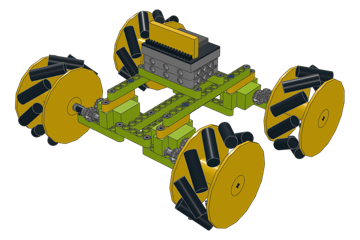
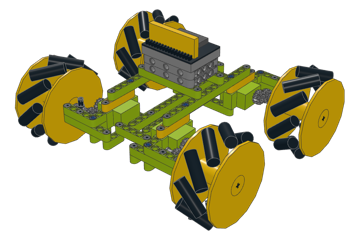
The geared cars' bearing frames, clear of the gears
The user, on the racer's step 13 picture: "this gear will not rotate -
i stuck to green part". A pin with pin hole standing on a flat beam
leaves 10 LDU under the axle, so the gear on the axle bit into the
7-beam (the 12-tooth by 7 LDU, the tank's 8-tooth by 2.4).

Now end_beams(): the 7-beam two studs outboard of the lug line, two
3-beams bridging under the lug and the tie with its pins; bearings(): a
3 x 5 L-beam on the 7-beam, the pin with pin hole hanging from its arm
end over the axle line. The tank's belt starts past the frames:
sprockets at 217, 21.2 cm over the tracks. Racer 17 steps, 129 parts;
geared tank 20 steps, 216 parts.

Claude-Session: https://claude.ai/code/session_011hvyuWNUuaEFsj45paVWBn

diff --git a/models/wukong_mecanum.py b/models/wukong_mecanum.py
@@ -3,9 +3,10 @@ hood, wings, horns, lights and bent beams (the user, 2026-10-31: "clean uncommon
 aesthetic"). Two side rails (a lime 15-beam on two yellow 5-beams) carry two 9-beams and two
 5 x 7 frames; the four green Geekservo 360 servos hang on the rails' end pins, outputs
 outwards, with lime beams under them. The wheels are not on the servos: each servo's output
-turns a 12-tooth double bevel gear that drives a second one on an 8L axle, held by a pin with
-pin hole on a 7-beam under the car's end (the two 7-beams of an end tied by a 5-beam), and the
-mecanum wheel sits on that axle past the ring. The gears' axles are 31.6 LDU apart, 1.6 LDU
+turns a 12-tooth double bevel gear that drives a second one on an 8L axle, in the ring of a pin
+with pin hole that hangs from an L-beam; the L-beam lies on a 7-beam two studs outboard of the
+lug line (clear of the gear: nothing may lie right under it), which bridges under the lug and the
+tie carry; the mecanum wheel sits on that axle past the ring. The gears' axles are 31.6 LDU apart, 1.6 LDU
 (0.65 mm) more than LEGO's 30 for two 12-tooth gears, so the teeth mesh 2.4 LDU deep instead of
 4. A gear pair turns each wheel the other way round: the driver's DIRECTION setting is -1 (the
 mecanum wheels' pattern, left-hand wheels at front left and back right, stays). The Wukong board
@@ -22,14 +23,16 @@ LIME = 27
 FLAT_X = R(("y", 90))                                      # beam along X, holes vertical
 ACROSS = R(("y", 90))                                      # pin or axle along Z
 PIN_HOLE_ON_Z_DOWN = np.array([[0, 0, 1], [1, 0, 0], [0, 1, 0]])   # 15100: pin hole along Z, pin down
+PIN_HOLE_ON_Z_UP = np.array([[0, 0, -1], [-1, 0, 0], [0, 1, 0]])   # 15100: pin hole along Z, pin up
 WHEEL = {(1, 1): "geekedu-ef-mecanum-wheel-left.dat", (-1, -1): "geekedu-ef-mecanum-wheel-left.dat",
          (1, -1): "geekedu-ef-mecanum-wheel-right.dat", (-1, 1): "geekedu-ef-mecanum-wheel-right.dat"}
 SERVO_X, SERVO_Y, RAIL_Z = 120, 50, 80                     # servo centres (on the rails' end pins)
 OUT_X, OUT_Y = SERVO_X + 10, SERVO_Y                       # the outputs sit 10 off the servos' centres
-RING_X, RING_Y = SERVO_X + 40, SERVO_Y + 10                # the pin with pin hole on the 7-beam's outer hole
+RING_X, RING_Y = SERVO_X + 40, SERVO_Y + 10                # the axle's bearing: a pin with pin hole under the L-beam's arm
+ARM_X = SERVO_X + 80                                       # the racer's 7-beams: two studs outboard of the lug line, clear of the 12-tooth gears
 BEAM_Z = RAIL_Z + 20                                       # the 7-beams' middles: holes from 40 to 160, the lug pin in 80
-TIE_Z = RAIL_Z - 40                                        # the 7-beams' innermost holes (z = 40): the 5-beam's end pins
-RING_Z = RAIL_Z + 80                                       # the 7-beams' outer holes (z = 160)
+TIE_Z = RAIL_Z - 40                                        # the tie's bridges (z = 40)
+RING_Z = RAIL_Z + 80                                       # the 7-beams' outer holes, the L-beams' corners (z = 160)
 GEAR_Z = RAIL_Z + 46                                       # the gears' middle, the one on the output against the servo (z = 126)
 WHEEL_Z = 231.5                                            # wheel centre: inner plate against the half bush past the ring
 # along each ring axle (left side, the right mirrored): a bush clear of the lug (96..116), the
@@ -41,8 +44,8 @@ BUSH_Z, SPACER_Z, OUTER_SPACER_Z, AXLE_Z = 106, 141, 174, 176
 # left, low; the board from the front left
 VIEW = dict(az=125, el=28, cover_az=130, cover_el=30,
             step_views={1: (330, 20), 2: (150, 20), 3: (65, 35), 4: (65, 35), 5: (65, 30), 6: (270, 35),
-                        7: (60, -35), 8: (160, -40), 9: (160, -35), 10: (150, 12), 11: (150, 12),
-                        12: (160, 8), 13: (150, 10), 14: (130, 30), 15: (140, 35)})
+                        7: (60, -35), 8: (160, -40), 9: (160, -35), 10: (160, -35), 11: (150, 12),
+                        12: (150, 12), 13: (150, 15), 14: (160, 8), 15: (150, 10), 16: (130, 30), 17: (140, 35)})
 
 
 def frame(x, y):
@@ -135,34 +138,60 @@ def underside(m, ends=(-1, 1), outer_beams=True):
     m.step()
 
 
-def end_beams(m, ends=(-1, 1)):
-    """Step 10: the geared cars' bearings: (x4) a 7-beam under each end of the car on the outer
-    lug's pin, its outer end past the servo; a pin up in its innermost hole, a pin with pin hole
-    down in its outer hole, the hole along the car's axles."""
+def end_beams(m, arm_x, ends=(-1, 1)):
+    """Steps 10-11: the geared cars' bearing frame under each servo's outer end. Nothing may lie
+    under the gear on the axle (it reaches 7 LDU below the axle line's beam top on the racer), so
+    the beam along the car sits a stud or two outboard of the gears, at arm_x, and bridges across
+    bring the lug's and the tie's pins to it; the ring hangs from an L-beam above (bearings())."""
+    cx = (RING_X + arm_x) / 2                               # the bridges' middle: holes at 160 and arm_x
+    # 10: (x4) two 3-beams across under each servo's outer end: one on the lug's pin, one in line
+    #     with the tie (a pin up in its hole under the tie); a pin up in each one's outer hole, the
+    #     lug's one a blue 3L pin (it reaches the L-beam too)
     for fx in ends:
         for s in (1, -1):
-            m.add("32524.dat", LIME, (fx * RING_X, 80, BEAM_Z * s))
+            for z in (TIE_Z, RAIL_Z):
+                m.add("32523.dat", LIME, (fx * cx, 80, z * s), FLAT_X)
             m.add("2780.dat", BLACK, (fx * RING_X, 70, TIE_Z * s), PIN_DOWN)
-            m.add("15100.dat", BLACK, (fx * RING_X, RING_Y, RING_Z * s), PIN_HOLE_ON_Z_DOWN)
+            m.add("2780.dat", BLACK, (fx * arm_x, 70, TIE_Z * s), PIN_DOWN)
+            m.add("6558.dat", BLUE, (fx * arm_x, 60, RAIL_Z * s), PIN_DOWN)
+    m.step()
+    # 11: (x4) a 7-beam along the car on those pins, outboard of the gears, its outer end past the
+    #     servo
+    for fx in ends:
+        for s in (1, -1):
+            m.add("32524.dat", LIME, (fx * arm_x, 60, BEAM_Z * s))
     m.step()
 
 
 def ties(m, ends=(-1, 1)):
-    """Step 11: (x2) a 5-beam across the two 7-beams' inner ends, on those pins: on one pin a
-    beam could turn."""
+    """Step 12: (x2) a 5-beam across the two bridges under the tie pins: the frames of one end are
+    one piece."""
     for fx in ends:
         m.add("32316.dat", LIME, (fx * RING_X, 60, 0))
     m.step()
 
 
+def bearings(m, arm_x, ends=(-1, 1)):
+    """Step 13: (x4) a 3 x 5 L-beam flat on the 7-beam: its long arm on the blue pin and two more,
+    its short arm over the axle line; a pin with pin hole up into the arm's hole there, its ring
+    the axle's bearing, the hole along the car's axles."""
+    for fx in ends:
+        for s in (1, -1):
+            m.add("32526.dat", LIME, (fx * arm_x, 40, RING_Z * s), frame((-fx, 0, 0), (0, s * fx, 0)))
+            for z in (RING_Z - 40, RING_Z):
+                m.add("2780.dat", BLACK, (fx * arm_x, 50, z * s), PIN_DOWN)
+            m.add("15100.dat", BLACK, (fx * RING_X, RING_Y, RING_Z * s), PIN_HOLE_ON_Z_UP)
+    m.step()
+
+
 def drive(m):
-    """Steps 12-14: the 1:1 gear pairs, the axles and the mecanum wheels."""
-    # 12: a 12-tooth double bevel gear pushed all the way onto each servo's output
+    """Steps 14-16: the 1:1 gear pairs, the axles and the mecanum wheels."""
+    # 14: a 12-tooth double bevel gear pushed all the way onto each servo's output
     for fx in (-1, 1):
         for s in (1, -1):
             m.add("32270.dat", LBG, (fx * OUT_X, OUT_Y, GEAR_Z * s), mesh(fx, 12, 12)[0])
     m.step()
-    # 13: (x4) an 8L axle through the ring: inside it a half bush against the ring, the second
+    # 15: (x4) an 8L axle through the ring: inside it a half bush against the ring, the second
     #     12-tooth gear in the first one's teeth and a bush; outside it a half bush
     for fx in (-1, 1):
         turn = mesh(fx, 12, 12)[1]                          # the axle's cross as the gear's hole
@@ -173,7 +202,7 @@ def drive(m):
             m.add("4265c.dat", LBG, (fx * RING_X, RING_Y, SPACER_Z * s), turn)
             m.add("4265c.dat", LBG, (fx * RING_X, RING_Y, OUTER_SPACER_Z * s), turn)
     m.step()
-    # 14: the mecanum wheels on the axles against the half bushes; left-hand wheels at front
+    # 16: the mecanum wheels on the axles against the half bushes; left-hand wheels at front
     #     left and back right (the kit's top view shows the rollers)
     for fx in (-1, 1):
         for side in (-1, 1):
@@ -195,8 +224,9 @@ def build():
     body(m)
     servos(m)
     underside(m, outer_beams=False)
-    end_beams(m)
+    end_beams(m, ARM_X)
     ties(m)
+    bearings(m, ARM_X)
     drive(m)
     board(m)
     return m

diff --git a/models/wukong_tank_4_motors_geared.py b/models/wukong_tank_4_motors_geared.py
@@ -1,8 +1,9 @@
 """Wukong tank with four servos, geared 2:1: our design, the four-servo Wukong tank
 (wukong_tank_4_motors.py: the Wukong mecanum racer's body on tracks from the Building:bit kit)
 with each servo geared up 2:1 and the belt shaped like the Building:bit tank's. The body,
-servos and underside are the racer's (steps 1-9, the end 9-beams left out); the racer's 7-beams,
-pins with pin holes and ties (10-11) hold the drive axles: a 16-tooth gear on each servo's
+servos and underside are the racer's (steps 1-9, the end 9-beams left out); the racer's bearing
+frames (10-13: bridges, 7-beams a stud outboard of the lug line, ties, L-beams with the pins with
+pin holes) hold the drive axles: a 16-tooth gear on each servo's
 output turns the 8-tooth gear on a 7L axle through the ring, and the sprocket sits on the axle
 past the ring, so the tracks run twice as fast as the servos turn, with half the pull. The ring
 is 30 LDU along and 10 below the output: the gears' axles are 31.6 LDU apart, 1.6 LDU (0.65 mm)
@@ -13,8 +14,8 @@ the belt's bottom run bends down to it and the tank stands on the idlers, its en
 floor, like the Building:bit tank (the user, 2026-10-31: "the belt shape with extra wheel"). One
 module is what 31 links allow, the count that made the plain belt as round as the four-servo
 tank's 27 (two modules lower needs 32 links and leaves 2 cm of slack). The Building:bit links
-are 5 studs wide, so the tracks start outboard of the gears: the sprocket hubs sit at 197 and
-the car is 19.6 cm wide over the tracks. The driver's directions are -1: a gear pair turns each
+are 5 studs wide, so the tracks start outboard of the gears and of the bearing frames: the
+sprocket hubs sit at 217 and the car is 21.2 cm wide over the tracks. The driver's directions are -1: a gear pair turns each
 sprocket the other way. World: front = +X, left = +Z, Y points down."""
 import numpy as np
 
@@ -32,19 +33,20 @@ WHEELS = (DRIVES[0], DRIVES[1], IDLER)                      # back, forward alon
 MIDDLE_Y = 100                                              # the 15-beam under the middle, on 3L pins from the keel
 IDLER_RING_Z = 140                                          # its end holes: the idlers' pins with pin holes
 GEAR_Z = racer.GEAR_Z                                       # the gears' middle, the 16-tooth one against the servo (z = 126)
-WHEEL_Z = 197                                               # sprocket hubs past the rings and a half bush; the links start at 149
+WHEEL_Z = 217                                               # sprocket hubs: the links (5 studs wide) start at 169, past the frames' ends
 # along each drive axle (left side, the right mirrored): a bush clear of the lug (96..116), the
-# 8-tooth gear (116..136), a half bush, 5 free, the ring (151..169), a half bush, the sprocket
-# (179..215), a half bush; the 7L axle from z = 96 to 236
-BUSH_Z, SPACER_Z, OUTER_SPACER_Z, OUTER_BUSH_Z, AXLE_Z = 106, 141, 174, 220, 166
-# along each idler axle: the ring (131..149), a bush, a half bush, the sprocket, a half bush; the
-# 5L axle from z = 130 to 230
-IDLER_BUSH_Z, IDLER_SPACER_Z, IDLER_AXLE_Z = 159, 174, 180
+# 8-tooth gear (116..136), a half bush, 5 free, the ring (151..169), a half bush, a bush, the
+# sprocket (199..235), a half bush; the 8L axle from z = 96 to 256
+BUSH_Z, SPACER_Z, OUTER_SPACER_Z, OUTER_BUSH_Z, END_BUSH_Z, AXLE_Z = 106, 141, 174, 189, 240, 176
+# along each idler axle: the ring (131..149), a bush, a half bush, a bush, the sprocket, a half
+# bush; the 6L axle from z = 130 to 250
+IDLER_BUSH_Z, IDLER_SPACER_Z, IDLER_AXLE_Z = 159, 174, 190
 TRACK = Track(WHEELS, 31)
 # the racer's cameras for its steps; the middle beam from below, the gears from the left, the
 # axles and sprockets from the front left, low, the tracks from the front left
-VIEW = dict(racer.VIEW, step_views={**racer.VIEW["step_views"], 12: (160, -35), 13: (160, 8), 14: (150, 10),
-                                    15: (150, 10), 16: (135, 20), 17: (130, 30), 18: (140, 35)})
+ARM_X = racer.ARM_X                                         # the racer's frames: a stud out the 8-tooth gear still reaches the 7-beam, two studs out the belt must start past it
+VIEW = dict(racer.VIEW, step_views={**racer.VIEW["step_views"], 14: (160, -35), 15: (160, 8), 16: (150, 10),
+                                    17: (150, 10), 18: (135, 20), 19: (130, 30), 20: (140, 35)})
 
 
 def build():
@@ -52,9 +54,10 @@ def build():
     racer.body(m)
     racer.servos(m)
     racer.underside(m, outer_beams=False)
-    racer.end_beams(m)
+    racer.end_beams(m, ARM_X)
     racer.ties(m)
-    # 12: a 15-beam under the middle of the car, on two blue 3L pins down through the 15-beams
+    racer.bearings(m, ARM_X)
+    # 14: a 15-beam under the middle of the car, on two blue 3L pins down through the 15-beams
     #     there; a pin with pin hole down in each of its end holes, the hole along the car's axles
     for z in (-20, 20):
         m.add("6558.dat", BLUE, (0, 80, z), PIN_DOWN)
@@ -62,37 +65,39 @@ def build():
     for s in (1, -1):
         m.add("15100.dat", BLACK, (IDLER[0], IDLER[1], IDLER_RING_Z * s), racer.PIN_HOLE_ON_Z_DOWN)
     m.step()
-    # 13: a 16-tooth gear pushed all the way onto each servo's output
+    # 15: a 16-tooth gear pushed all the way onto each servo's output
     for x, y in OUTPUTS:
         for s in (1, -1):
             m.add("94925.dat", LBG, (x, y, GEAR_Z * s), racer.mesh(np.sign(x), 16, 8)[0])
     m.step()
-    # 14: (x4) a 7L axle through the ring: inside it a half bush against the ring, the 8-tooth gear
-    #     in the 16-tooth gear's teeth and a bush; outside it a half bush
+    # 16: (x4) an 8L axle through the ring: inside it a half bush against the ring, the 8-tooth gear
+    #     in the 16-tooth gear's teeth and a bush; outside it a half bush and a bush
     for x, y in DRIVES:
         turn = racer.mesh(np.sign(x), 16, 8)[1]            # the axle's cross as the 8-tooth gear's hole
         for s in (1, -1):
-            m.add("44294.dat", LBG, (x, y, AXLE_Z * s), turn @ ACROSS)
+            m.add("3707.dat", LBG, (x, y, AXLE_Z * s), turn @ ACROSS)
             m.add("3713.dat", LBG, (x, y, BUSH_Z * s), turn)
             m.add("10928.dat", DBG, (x, y, GEAR_Z * s), turn)
             m.add("4265c.dat", LBG, (x, y, SPACER_Z * s), turn)
             m.add("4265c.dat", LBG, (x, y, OUTER_SPACER_Z * s), turn)
+            m.add("3713.dat", LBG, (x, y, OUTER_BUSH_Z * s), turn)
     m.step()
-    # 15: (x2) a 5L axle through each idler's ring, a bush and a half bush on it outside
+    # 17: (x2) a 6L axle through each idler's ring, a bush, a half bush and a bush on it outside
     for s in (1, -1):
         turn = TRACK.sprocket_turn(IDLER)
-        m.add("32073.dat", LBG, (IDLER[0], IDLER[1], IDLER_AXLE_Z * s), turn @ ACROSS)
+        m.add("3706.dat", LBG, (IDLER[0], IDLER[1], IDLER_AXLE_Z * s), turn @ ACROSS)
         m.add("3713.dat", LBG, (IDLER[0], IDLER[1], IDLER_BUSH_Z * s), turn)
         m.add("4265c.dat", LBG, (IDLER[0], IDLER[1], IDLER_SPACER_Z * s), turn)
+        m.add("3713.dat", LBG, (IDLER[0], IDLER[1], OUTER_BUSH_Z * s), turn)
     m.step()
-    # 16: a sprocket on each axle against the half bush, a half bush outside it
+    # 18: a sprocket on each axle against the half bush, a half bush outside it
     for x, y in WHEELS:
         for s in (1, -1):
             turn = TRACK.sprocket_turn((x, y))
             m.add("57519.dat", DBG, (x, y, WHEEL_Z * s), turn)
-            m.add("4265c.dat", LBG, (x, y, OUTER_BUSH_Z * s), turn)
+            m.add("4265c.dat", LBG, (x, y, END_BUSH_Z * s), turn)
     m.step()
-    # 17: (x2) 31 links to a track, round each side's two sprockets and under its idler
+    # 19: (x2) 31 links to a track, round each side's two sprockets and under its idler
     for s in (1, -1):
         TRACK.links(m, DBG, WHEEL_Z * s)
     m.step()

diff --git a/README.md b/README.md
@@ -9,10 +9,10 @@ for the phone joystick.
 
 | | Model | Motors on the Wukong board | Steps | Parts |
 |---|---|---|---|---|
-| <img src="docs/images/wukong-mecanum.png" width="180" alt="Wukong mecanum racer"> | **wukong-mecanum**: the mecanum racer; drives, turns on the spot and slides sideways. A plain body of beams and frames; each wheel on its own axle, turned 1:1 by two 12-tooth gears from the servo (set the driver's DIRECTION to -1) | 4 Geekservo 360° servos: S0 left front, S1 left rear, S2 right front, S3 right rear | [15, online](https://legorace.geekedu.eu/en/models/wukong-mecanum-racer/) · [PDF](https://github.com/cznewt/gedu-brick-race/releases/latest/download/wukong-mecanum-instructions.pdf) | 101 |
+| <img src="docs/images/wukong-mecanum.png" width="180" alt="Wukong mecanum racer"> | **wukong-mecanum**: the mecanum racer; drives, turns on the spot and slides sideways. A plain body of beams and frames; each wheel on its own axle, turned 1:1 by two 12-tooth gears from the servo (set the driver's DIRECTION to -1); the axle's bearing is a pin with pin hole hanging from an L-beam on a frame of 7-beams and 3-beams two studs outboard of the gears | 4 Geekservo 360° servos: S0 left front, S1 left rear, S2 right front, S3 right rear | [17, online](https://legorace.geekedu.eu/en/models/wukong-mecanum-racer/) · [PDF](https://github.com/cznewt/gedu-brick-race/releases/latest/download/wukong-mecanum-instructions.pdf) | 129 |
 | <img src="docs/images/wukong-tank-2-motors.png" width="180" alt="Wukong tank with two motors"> | **wukong-tank-2-motors**: the racer's body on tracks, driven at the back, the sprockets on the servos | 2 Geekservo 360° servos: S0 left, S1 right | [14, online](https://legorace.geekedu.eu/en/models/wukong-tank-2servo/) · [PDF](https://github.com/cznewt/gedu-brick-race/releases/latest/download/wukong-tank-2-motors-instructions.pdf) | 117 |
 | <img src="docs/images/wukong-tank-4-motors.png" width="180" alt="Wukong tank with four motors"> | **wukong-tank-4-motors**: the racer's body on tracks, all four motors driving, the sprockets on the servos | 4 Geekservo 360° servos: S0 left front, S1 left rear, S2 right front, S3 right rear | [12, online](https://legorace.geekedu.eu/en/models/wukong-tank-4servo/) · [PDF](https://github.com/cznewt/gedu-brick-race/releases/latest/download/wukong-tank-4-motors-instructions.pdf) | 119 |
-| <img src="docs/images/wukong-tank-4-motors-geared.png" width="180" alt="Wukong tank with four motors, geared 2:1"> | **wukong-tank-4-motors-geared**: the four-motor tank geared up 2:1: a 16-tooth gear on each servo turns an 8-tooth one on an axle that a pin with pin hole holds, on a 7-beam under the car's end (the two 7-beams of an end are tied by a 5-beam); the sprocket sits on that axle; a low idler in the middle of each belt shapes it like the Building:bit tank's, so the tank stands on the idlers. About the mecanum car's speed, half the pull. A prototype: the gears mesh 0.65 mm wider than LEGO's standard spacing, and the car is 19.6 cm wide over the tracks (the Building:bit links are 5 studs wide, so they start outboard of the gears). The drive is steps 25-29 | 4 Geekservo 360° servos: S0 left front, S1 left rear, S2 right front, S3 right rear | [18, online](https://legorace.geekedu.eu/en/models/wukong-tank-4servo-geared/) · [PDF](https://github.com/cznewt/gedu-brick-race/releases/latest/download/wukong-tank-4-motors-geared-instructions.pdf) | 182 |
+| <img src="docs/images/wukong-tank-4-motors-geared.png" width="180" alt="Wukong tank with four motors, geared 2:1"> | **wukong-tank-4-motors-geared**: the four-motor tank geared up 2:1: a 16-tooth gear on each servo turns an 8-tooth one on an axle in the racer's bearing frames; the sprocket sits on that axle; a low idler in the middle of each belt shapes it like the Building:bit tank's, so the tank stands on the idlers. About the mecanum car's speed, half the pull. A prototype: the gears mesh 0.65 mm wider than LEGO's standard spacing, and the car is 21.2 cm wide over the tracks (the Building:bit links are 5 studs wide, so they start outboard of the gears and of the bearing frames). The drive is steps 10-18 | 4 Geekservo 360° servos: S0 left front, S1 left rear, S2 right front, S3 right rear | [20, online](https://legorace.geekedu.eu/en/models/wukong-tank-4servo-geared/) · [PDF](https://github.com/cznewt/gedu-brick-race/releases/latest/download/wukong-tank-4-motors-geared-instructions.pdf) | 216 |
 
 ## Download
 

diff --git a/AGENTS.md b/AGENTS.md
@@ -36,7 +36,8 @@ each one into `dist/<slug>/`:
   - `source`;
   - optionally `booklet_parts`, which `build.py` checks the parts against.
 - The tanks import `wukong_mecanum` for the racer's body (steps 1-6), servos (7), underside (8-9) and,
-  the geared ones, its end beams and ties (10-11). A change there changes every model:
+  the geared ones, its bearing frames (10-13: `end_beams`, `ties`, `bearings`). Nothing may lie right
+  under a gear: the frames' 7-beams sit two studs outboard of the lug line. A change there changes every model:
   rebuild them all. Its `underside()` takes an option (the geared tank leaves the end 9-beams out
   and puts a 7-beam per side there); the default must keep the other models as they are.
 - The Geekservo's lugs have one pin hole each, across the servo. Do not design around any other
